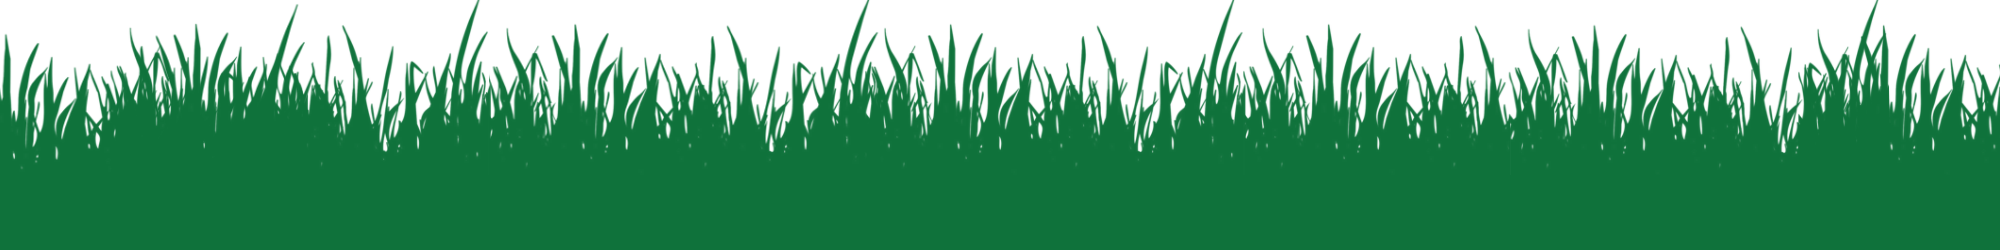
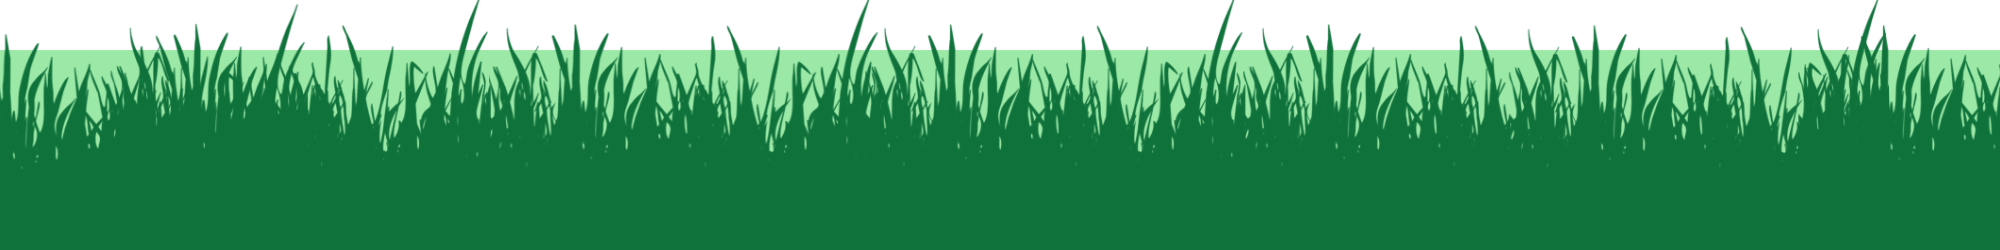
changed the position on the grass div and added correct path on theme-bottom

Changed region(s): [[0.0, 0.196, 1.0, 0.588]]

diff --git a/css/volleyball.css b/css/volleyball.css
@@ -13,7 +13,7 @@ html {
 body {
 	margin: 0;
 	padding:0;
-	width: 100%;	
+	width: 100%;
 }
 
 .wrapper {
@@ -23,7 +23,7 @@ body {
 	margin: 0 auto;
 	border: solid 4px #000;
 	
-	overflow-x:hidden;
+	overflow-y:hidden;
 	
 	font-family: 'Averia Libre', cursive;
 	
@@ -96,9 +96,9 @@ header img {
 
 footer {
 	color:#333;
-	position:absolute;
-	top:49em;
-	left:41em;
+	position:relative;
+	top:0em;
+	left:40em;
 	bottom:0;
 }
 
@@ -121,11 +121,12 @@ footer {
 	background-color:#333;
 }
 
-.grass {
+#grass {
 	/*width: 100%;
 	height: 250px;*/
-	position:absolute;
-	top:50em;
+	position:fixed;
+	top:46em;
+	overflow:hidden;
 	/*background: url(../images/grass.png);*/
 }
 

diff --git a/includes/theme-bottom.php b/includes/theme-bottom.php
@@ -1,8 +1,8 @@
 	</div>
-	<footer>&copy 2012, Tracy Karnabi</footer>
-	<div class="grass">
+	<div id="grass">
 		<img src="../images/grass.png" />
 	</div>	
+	<footer>&copy 2012, Tracy Karnabi</footer>
 
 	<script src="https://ajax.googleapis.com/ajax/libs/jquery/1.7.1/jquery.min.js"></script>
 	<script src="http://maps.googleapis.com/maps/api/js?key=AIzaSyCOSF6EUJHi28FLeCSkKsQsG1gtn4vRkN4&sensor=false"></script>
